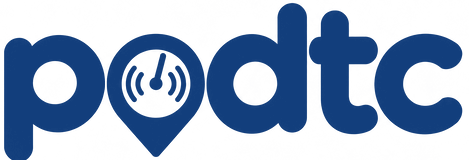
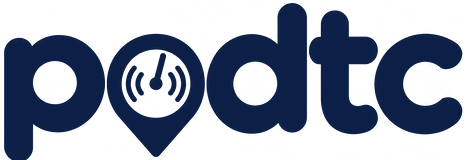
podtc: masthead uses the original podtc wordmark again
Claude-Session: https://claude.ai/code/session_01NpvzWB4UMRbAtwDrDKCp7k

diff --git a/podtc/sw.js b/podtc/sw.js
@@ -1,5 +1,5 @@
 /* PODTC service worker — app shell offline; map tiles & Wikipedia cached as you go. */
-const V = 'podtc-v29';
+const V = 'podtc-v30';
 const SHELL = ['./', 'index.html', 'css/app.css', 'css/theme.css', 'css/theme-blue.css', 'css/podcast.css', 'css/news.css', 'css/vivid.css', 'css/a11y.css', 'js/a11y.js', 'js/city.js', 'js/muni.js', 'js/radio.js', 'css/radio.css', 'css/muni.css', 'assets/muni-logo.png', 'accessibility.html', 'assets/wordmark-navy.png', 'js/art.js', 'js/covers.js', 'js/extras.js', 'js/icons.js', 'assets/wordmark-white.png', 'js/geo.js', 'js/config.js', 'js/places.js', 'js/quiz.js', 'js/narrator.js', 'js/wiki.js', 'js/app.js', 'js/home.js', 'js/live.js', 'vendor/qrcode/qrcode.js', 'manifest.webmanifest', 'assets/wordmark.png', 'assets/logo-full.png', 'assets/icon-192.png', 'assets/icon-512.png',
   'vendor/leaflet/leaflet.css', 'vendor/leaflet/leaflet.js'];
 self.addEventListener('install', e => { e.waitUntil(caches.open(V).then(c => c.addAll(SHELL)).then(() => self.skipWaiting())); });

diff --git a/podtc/js/radio.js b/podtc/js/radio.js
@@ -24,7 +24,7 @@
   /* ---------- masthead ---------- */
   if (top) {
     const oldLogo = top.querySelector('.top__logo');
-    const logo = `<a class="rlogo" href="./" aria-label="PODTC, דף הבית"><span class="rlogo__ic">${MIC(24)}</span><span class="rlogo__t"><b>POD<i>TC</i></b><small>THE CITY HAS A VOICE</small></span></a>`;
+    const logo = `<a class="rlogo rlogo--img" href="./" aria-label="podtc, דף הבית"><img class="top__logo" src="assets/wordmark-navy.png" alt="podtc"></a>`;
     if (oldLogo) oldLogo.outerHTML = logo; else top.insertAdjacentHTML('afterbegin', logo);
     top.insertAdjacentHTML('afterbegin', `<div class="util"><div class="util__in">
         <span class="util__r"><i class="util__dot"></i><b>הקול של העיר, בכל מקום</b><span class="util__sep">|</span><span>חדשות • פודקאסטים • רדיו</span></span>

diff --git a/podtc/css/radio.css b/podtc/css/radio.css
@@ -212,3 +212,7 @@ html.a11y-hc .rlogo__t b,html.a11y-hc .rlogo__t b i{color:#fff!important}
 @media (max-width:459px){.top__muni{display:flex!important}.top__muni img{height:28px!important}.rlogo__t small{display:none}.rlogo__t b{font-size:20px}.rlive{padding:0 10px}}
 @media (max-width:359px){.top__muni{display:none!important}}
 .home__inner>section.rhero:not(#x):not(#y){padding:0!important;background:none!important;border:0!important;box-shadow:none!important}
+/* the original podtc wordmark in the masthead */
+.rlogo--img .top__logo{height:40px!important;width:auto;display:block}
+@media (max-width:1023px){.rlogo--img .top__logo{height:30px!important}}
+@media (max-width:359px){.rlogo--img .top__logo{height:26px!important}}
